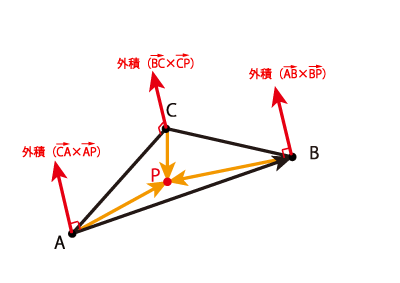
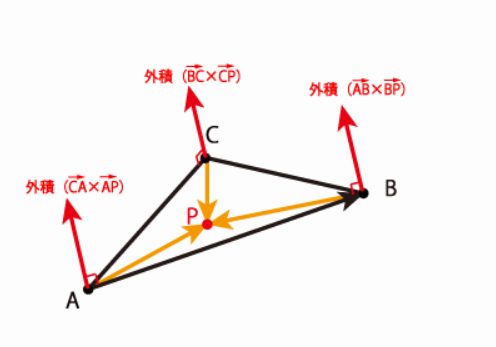
更新

diff --git a/index.html b/index.html
@@ -434,7 +434,7 @@ DirectX12</p>
 平面の平面方程式から平面上の点Pと法線Nが分かるので、<br>
 PAベクトル、PBベクトルをそれぞれNと内積して、<br>
 片方がプラス、片方がマイナスなら交差していると判断できます。
-<img src="交差判定.png" width="450" height="300"></img></br></p>
+<img src="交差判定.png" width="400" height="300"></img></br></p>
 <h2 id="%E5%B9%B3%E9%9D%A2%E3%81%A8%E7%B7%9A%E5%88%86%E3%81%AE%E4%BA%A4%E7%82%B9%E3%82%92%E6%B1%82%E3%82%81%E3%82%8B">平面と線分の交点を求める</h2>
 <ol>
 <li>レイの終了座標から開始座標へのベクトル（以下BAベクトル）を計算します。</li>
@@ -446,7 +446,11 @@ PAベクトル、PBベクトルをそれぞれNと内積して、<br>
 <ol>
 <li>3頂点の座標と交点の座標をそれぞれ減算をした値を求めます。</li>
 <li>1で求めた値を使い外積を求めます。</li>
-<li>2で求めた値がどちらもプラスの場合、三角形の内側に交点があると判定します</li>
+<li>2で求めた外積ベクトルの向きが揃っていた場合、三角形の中に点があります<br>
+▼三角形の中に点がある場合　　
+<img src="外積内.png" width="400"></img></br>
+▼三角形の外に点がある場合　　
+<img src="外積外.png" width="400"></img></br></li>
 </ol>
 <h2 id="%E3%83%BB%E3%83%9E%E3%83%83%E3%83%97%E3%81%B8%E3%81%AE%E5%A1%97%E3%82%8A%E3%81%AE%E5%87%A6%E7%90%86%E3%81%AE%E5%AE%9F%E8%A3%85">・マップへの塗りの処理の実装</h2>
 <ol>
@@ -461,7 +465,7 @@ PAベクトル、PBベクトルをそれぞれNと内積して、<br>
 2.ブラーとダウンサンプリングをかけながら複数枚のテクスチャを作成する。<br>
 3.複数枚のテクスチャの平均を取って加算合成する。</p>
 <p>▼通常シーン<br>
-<img src="通常scene.png" width="500"></img></br><br>
+<img src="通常シーン.png" width="500"></img></br><br>
 ▼輝度抽出したテクスチャ<br>
 <img src="輝度抽出.png" width="500"></img></br><br>
 ▼ブラーをかけながらダウンサンプリングしたテクスチャ<br>
@@ -469,9 +473,12 @@ PAベクトル、PBベクトルをそれぞれNと内積して、<br>
 ▼加算合成後<br>
 <img src="加算合成後.png" width="500"></img></br></p>
 <h1 id="5%E7%B5%8C%E8%B7%AF%E6%8E%A2%E7%B4%A2">5.経路探索</h1>
-<p>3dsMAX上で地形データを作成し、レベルで保存 読み込みを行う。<br>
+<p>3dsMAXで地形データを作成し、レベルで保存 読み込みを行う。<br>
 読み込んだ地形データを元に移動するようする。</p>
-<p><img src="パス.png" width="500"></img></br></p>
+<p>▼ステージ<br>
+<img src="ステージ.png" width="400"></img></br>
+▼地形データ<br>
+<img src="地形データ.png" width="400"></img></br></p>
 <h1 id="6%E3%82%B7%E3%83%A3%E3%83%89%E3%82%A6">6.シャドウ</h1>
 <h1 id="7%E3%82%B2%E3%83%BC%E3%83%A0%E3%81%A7%E3%81%93%E3%81%A0%E3%82%8F%E3%81%A3%E3%81%9F%E9%83%A8%E5%88%86">7.ゲームでこだわった部分</h1>
 

diff --git a/portfolio.md b/portfolio.md
@@ -72,7 +72,7 @@ DirectX12
 平面の平面方程式から平面上の点Pと法線Nが分かるので、  
 PAベクトル、PBベクトルをそれぞれNと内積して、  
 片方がプラス、片方がマイナスなら交差していると判断できます。
-  <img src="交差判定.png" width="450" height="300"></img></br>
+  <img src="交差判定.png" width="400" height="300"></img></br>
   
 ##  平面と線分の交点を求める
 1. レイの終了座標から開始座標へのベクトル（以下BAベクトル）を計算します。
@@ -83,7 +83,12 @@ PAベクトル、PBベクトルをそれぞれNと内積して、
 求めた交点の座標がポリゴンからなる、三角形の中に含まれているかどうかの判定を取ります。  
 1. 3頂点の座標と交点の座標をそれぞれ減算をした値を求めます。
 2. 1で求めた値を使い外積を求めます。
-3. 2で求めた値がどちらもプラスの場合、三角形の内側に交点があると判定します  
+3. 2で求めた外積ベクトルの向きが揃っていた場合、三角形の中に点があります  
+▼三角形の中に点がある場合　　
+<img src="外積内.png" width="400"></img></br>
+▼三角形の外に点がある場合　　
+<img src="外積外.png" width="400"></img></br>  
+
 
 ## ・マップへの塗りの処理の実装
 1. 衝突点のワールド座標から3頂点のUV座標を求めます。  
@@ -100,7 +105,7 @@ PAベクトル、PBベクトルをそれぞれNと内積して、
 3.複数枚のテクスチャの平均を取って加算合成する。  
   
 ▼通常シーン  
- <img src="通常scene.png" width="500"></img></br>  
+ <img src="通常シーン.png" width="500"></img></br>  
 ▼輝度抽出したテクスチャ  
 <img src="輝度抽出.png" width="500"></img></br>  
 ▼ブラーをかけながらダウンサンプリングしたテクスチャ  
@@ -111,10 +116,13 @@ PAベクトル、PBベクトルをそれぞれNと内積して、
 
 # 5.経路探索
 
-3dsMAX上で地形データを作成し、レベルで保存 読み込みを行う。  
+3dsMAXで地形データを作成し、レベルで保存 読み込みを行う。  
 読み込んだ地形データを元に移動するようする。  
 
-<img src="パス.png" width="500"></img></br>
+▼ステージ  
+<img src="ステージ.png" width="400"></img></br>
+▼地形データ  
+<img src="地形データ.png" width="400"></img></br>
 
 # 6.シャドウ
 
